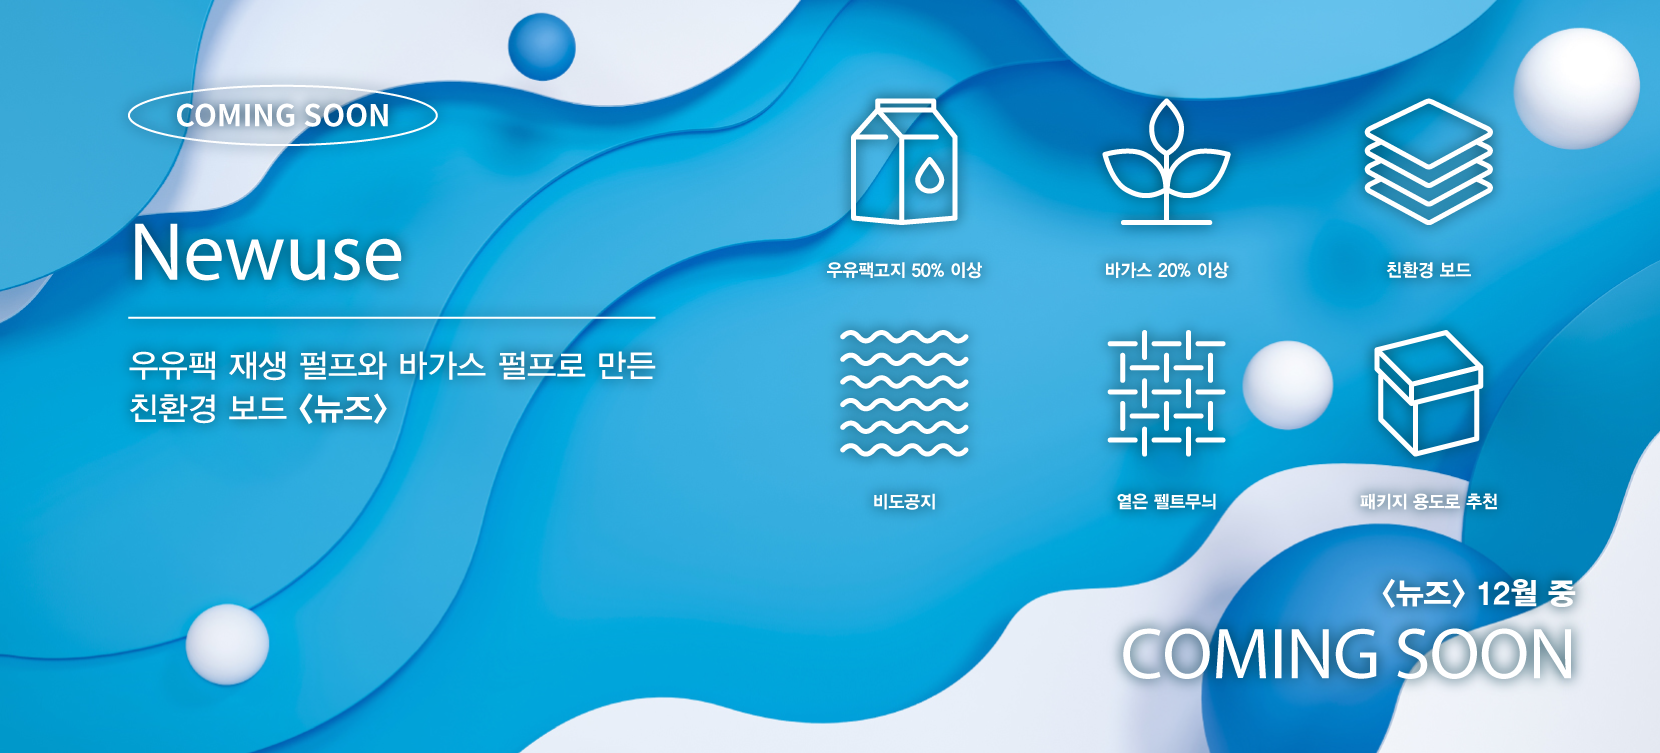
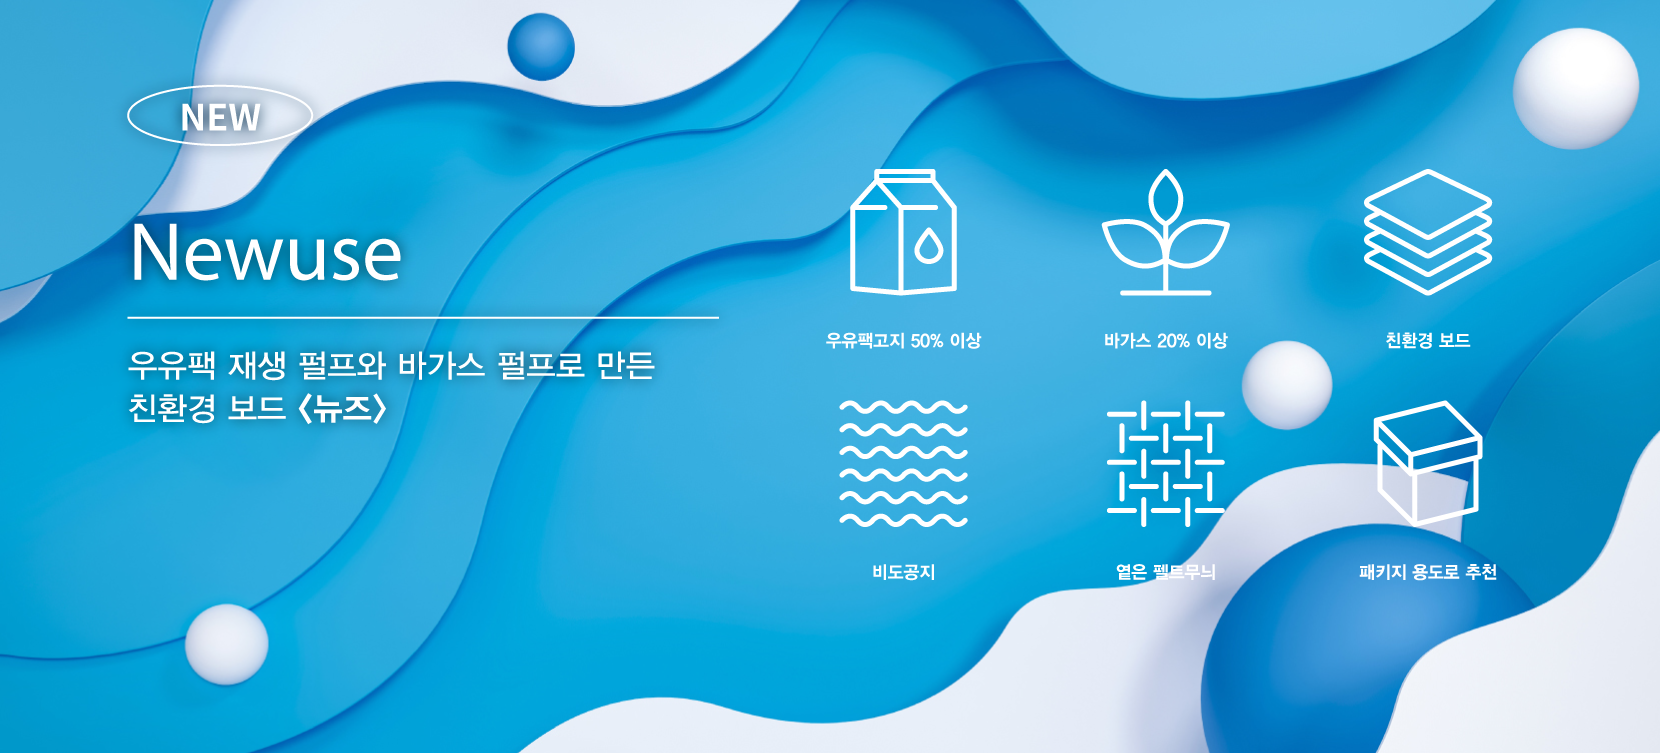
23.01.06(0)

diff --git a/css/main.css b/css/main.css
@@ -89,16 +89,9 @@ header nav .icon {
     font-size: 1.5rem;
 }
 
-#slider {
-    width: 100%;
-    height: 750px;
-    position: relative;
-    /* overflow: hidden; */
-}
-
-#slider .slider_control {
+#slider_control {
     position: absolute;
-    bottom: 0px;
+    top: 50px;
     width: 30%;
     height: 880px;
     padding: 3%;
@@ -107,12 +100,97 @@ header nav .icon {
     z-index: 3;
 }
 
+#slider_control .pagination {
+    position: relative;
+    top: 10%;
+}
+
+#slider_control .pagination .swiper-pagination-bullet-active {
+    background: #fff !important;
+    opacity: 1 !important;
+}
+
+#slider_control .pagination .swiper-pagination-bullet {
+    display: block;
+    position: relative;
+    width: 5px;
+    height: 5px;
+    border-radius: 25%;
+    margin: 30px 0;
+    background: #aaa;
+    opacity: var(--swiper-pagination-bullet-inactive-opacity, .5);
+}
+
+#slider_control .pagination .swiper-pagination-bullet .bullet_text {
+    position: absolute;
+    display: inline-block;
+    text-align: left;
+    margin-top: -9px;
+    margin-left: 15px;
+    width: 200px;
+    color: #fff;
+    opacity: var(--swiper-pagination-bullet-inactive-opacity, .5);
+}
+
+#slider_control .scroll_arrow {
+    color: #fff;
+    transform-origin: center;
+    transform: rotate(-90deg);
+    position: relative;
+    top: 30%;
+    left: -20%;
+    width: 200px;
+    display: flex;
+    align-items: center;
+    justify-content: space-around;
+    flex-direction: row-reverse;
+}
+
+#slider_control .scroll_arrow p {
+    position: absolute;
+    letter-spacing: 0.2rem;   
+}
+
+#slider_control .scroll_arrow img {
+    display: block;
+    position: relative;
+    right: 100px;
+    transform-origin: center;
+    transform: rotate(90deg);    
+    animation: scroll_down 1s ease-in-out infinite;
+}
+
+@keyframes scroll_down {
+    0% {
+        /* transform: translateY(10%); */
+        margin-left: 10%;
+    }
+    50% {
+        /* transform: translateY(0%); */
+        margin-left: 0%;
+    }
+    100% {
+        /* transform: translateY(10%); */
+        margin-left: 10%;
+    }
+}
+
+#slider {
+    width: 100%;
+    height: 750px;
+    position: absolute;
+    top: 180px;
+    overflow: hidden;
+}
+
 #slider #side_menu {
     position: absolute;
-    width: 450px;
+    width: auto;
     height: 750px;
+    top: 0;
     left: auto;
     right: 0;
+    margin-right: -400px;
     display: flex;
     background-color: #333;
     color: #fff;
@@ -121,7 +199,31 @@ header nav .icon {
 
 #slider #side_menu .side_door {
     width: 50px;
-    background-color: #aaa;
+    display: flex;
+    justify-content: center;
+    align-items: center;
+    cursor: pointer;
+}
+
+#slider #side_menu .side_door .open {
+    font-size: 1.5rem;
+}
+
+#slider #side_menu .side_door .close {
+    transform-origin: center;
+    transform: rotate(90deg);
+    font-size: 1rem;
+    background-color: #333;
+}
+
+.off {
+    display: none;
+}
+
+#slider #side_menu .side_door .close::after {
+    content: "\00D7";
+    font-size: 1rem;
+    margin-left: 5px;
 }
 
 #slider #side_menu .side_cont {
@@ -200,8 +302,9 @@ header nav .icon {
     font-size: 1.5rem;
 }
 
-#slider .swiper {
+#swiper {
     position: absolute;
+    top: 180px;
     left: auto;
     right: 50px;
     width: 85%;
@@ -209,14 +312,14 @@ header nav .icon {
     z-index: 4 !important;
 }
 
-#slider .swiper-slide img {
+#swiper .swiper-slide img {
     display: block;
     width: 100%;
     height: 100%;
     object-fit: cover;
 }
 
-#slider .swiper .swiper-button-prev {
+#swiper .swiper-button-prev {
     position: absolute;
     left: auto;
     right: 15%;
@@ -225,7 +328,7 @@ header nav .icon {
     color: #fff;
 }
 
-#slider .swiper .swiper-button-next {
+#swiper .swiper-button-next {
     position: absolute;
     left: auto;
     right: 15%;
@@ -234,7 +337,7 @@ header nav .icon {
     color: #fff;
 }
 
-#slider .swiper .swiper-button-prev::after  {
+#swiper .swiper-button-prev::after  {
     content: '';
     position: absolute;
     width: 0;
@@ -246,7 +349,7 @@ header nav .icon {
     transition: all 0.5s;
 }
 
-#slider .swiper .swiper-button-next::after {
+#swiper .swiper-button-next::after {
     content: '';
     position: absolute;
     width: 0;
@@ -258,12 +361,12 @@ header nav .icon {
     transition: all 0.5s;
 }
 
-#slider .swiper .swiper-button-prev:hover::after,
-#slider .swiper .swiper-button-next:hover::after  {
+#swiper .swiper-button-prev:hover::after,
+#swiper .swiper-button-next:hover::after  {
     width: 100px;
 }
 
-#slider .swiper .back {
+#swiper .back {
     position: absolute;
     width: 70px;
     height: 70px;
@@ -275,40 +378,8 @@ header nav .icon {
     transition: all 0.5s;
 }
 
-#slider .swiper .back:hover {
+#swiper .back:hover {
     opacity: 1;
-}
-
-#slider .slider_control .pagination {
-    position: relative;
-    width: 50%;
-    left: 0;
-    top: 10%;
-}
-
-#slider .slider_control .pagination .swiper-pagination-bullet-active {
-    background: #fff !important;
-    opacity: 1 !important;
-}
-#slider .slider_control .pagination .swiper-pagination-bullet {
-    display: block;
-    position: relative;
-    width: 5px;
-    height: 5px;
-    border-radius: 25%;
-    margin: 30px 0;
-    background: #aaa;
-    opacity: var(--swiper-pagination-bullet-inactive-opacity, .5);
-}
-#slider .slider_control .pagination .swiper-pagination-bullet .bullet_text {
-    position: absolute;
-    display: inline-block;
-    text-align: left;
-    margin-top: -9px;
-    margin-left: 15px;
-    width: 200px;
-    color: #fff;
-    opacity: var(--swiper-pagination-bullet-inactive-opacity, .5);
 }
 
 #floor_slider {

diff --git a/index.html b/index.html
@@ -10,7 +10,9 @@
     <link rel="stylesheet" href="css/common.css">
     <link rel="stylesheet" href="css/main.css">
     <!-- 폰트어썸 -->
-    <link rel="stylesheet" href="https://cdnjs.cloudflare.com/ajax/libs/font-awesome/6.2.1/css/all.min.css" integrity="sha512-MV7K8+y+gLIBoVD59lQIYicR65iaqukzvf/nwasF0nqhPay5w/9lJmVM2hMDcnK1OnMGCdVK+iQrJ7lzPJQd1w==" crossorigin="anonymous" referrerpolicy="no-referrer" />
+    <link rel="stylesheet" href="https://cdnjs.cloudflare.com/ajax/libs/font-awesome/6.2.1/css/all.min.css"
+        integrity="sha512-MV7K8+y+gLIBoVD59lQIYicR65iaqukzvf/nwasF0nqhPay5w/9lJmVM2hMDcnK1OnMGCdVK+iQrJ7lzPJQd1w=="
+        crossorigin="anonymous" referrerpolicy="no-referrer" />
     <script src="https://ajax.aspnetcdn.com/ajax/jQuery/jquery-3.6.0.min.js"></script>
     <script src="js/common.js"></script>
     <script src="js/main.js"></script>
@@ -107,17 +109,20 @@
         </nav>
     </header>
 
-    <!-- Link Swiper's CSS -->
-    <link rel="stylesheet" href="https://cdn.jsdelivr.net/npm/swiper/swiper-bundle.min.css" />
-    <div id="slider">
-        <div class="slider_control">
-            <img src="css/img/slide_logo.png" alt="슬라이드로고">
-            <div class="pagination swiper-pagination"></div>
+    <div class="slider_control" id="slider_control">
+        <img src="css/img/slide_logo.png" alt="슬라이드로고">
+        <div class="pagination swiper-pagination"></div>
+        <div class="scroll_arrow">
+            <p>SCROLL</p>
+            <img src="css/img/btn_scroll.png" alt="btn scroll">
         </div>
+    </div>
+
+    <div id="slider">    
         <div id="side_menu">
             <div class="side_door">
-                <p><i class="fa-solid fa-chevron-left"></i></p>
-                <p class="close">Close</p>
+                <p class="open"><i class="fa-solid fa-chevron-left"></i></p>
+                <p class="close off">Close</p>
             </div>
             <div class="side_cont">
                 <ul class="side_list">
@@ -161,20 +166,22 @@
                 </ul>
             </div>
         </div>
-        <div class="swiper mySwiper">
-            <div class="swiper-wrapper">
-                <div class="swiper-slide"><img src="css/img/slide01.png" alt="슬라이드1"></div>
-                <div class="swiper-slide"><img src="css/img/slide02.png" alt="슬라이드2"></div>
-                <div class="swiper-slide"><img src="css/img/slide03.png" alt="슬라이드3"></div>
-            </div>
-            <div class="swiper-button-prev">
-                <div class="back"></div>
-            </div>
-            <div class="swiper-button-next">
-                <div class="back"></div>
-            </div>
-        </div>
+    </div>
 
+    <!-- Link Swiper's CSS -->
+    <link rel="stylesheet" href="https://cdn.jsdelivr.net/npm/swiper/swiper-bundle.min.css" />
+    <div class="swiper mySwiper" id="swiper">
+        <div class="swiper-wrapper">
+            <div class="swiper-slide"><img src="css/img/slide01.png" alt="슬라이드1"></div>
+            <div class="swiper-slide"><img src="css/img/slide02.png" alt="슬라이드2"></div>
+            <div class="swiper-slide"><img src="css/img/slide03.png" alt="슬라이드3"></div>
+        </div>
+        <div class="swiper-button-prev">
+            <div class="back"></div>
+        </div>
+        <div class="swiper-button-next">
+            <div class="back"></div>
+        </div>
     </div>
     <!-- Swiper JS -->
     <script src="https://cdn.jsdelivr.net/npm/swiper/swiper-bundle.min.js"></script>

diff --git a/js/main.js b/js/main.js
@@ -1,11 +1,22 @@
 $(document).ready(function () {
 
-    $('#slider .slider_control .pagination .swiper-pagination-bullet').eq(0)
-    .html('<span class="bullet_text">COMING SOON</span>');
-    $('#slider .slider_control .pagination .swiper-pagination-bullet').eq(1)
-    .html('<span class="bullet_text">NEW</span>');
-    $('#slider .slider_control .pagination .swiper-pagination-bullet').eq(2)
+    $('.slider_control .pagination .swiper-pagination-bullet').eq(0)
+    .html('<span class="bullet_text">NEW-NEWUSE</span>');
+    $('.slider_control .pagination .swiper-pagination-bullet').eq(1)
+    .html('<span class="bullet_text">NEW-THE NATURAL</span>');
+    $('.slider_control .pagination .swiper-pagination-bullet').eq(2)
     .html('<span class="bullet_text">DOOSUNG PAPER</span>');
 
-    
+    $('.side_door').click(function(){
+        $('.close').toggleClass('off');
+        $('.open').toggleClass('off');
+
+        if($('#side_menu').css('margin-right') == '-400px') {
+            $('#side_menu').stop().animate({ marginRight: 0}, 400);
+        } else {
+            $('#side_menu').stop().animate({ marginRight: -400}, 400);
+        }
+        
+    });
+
 });
